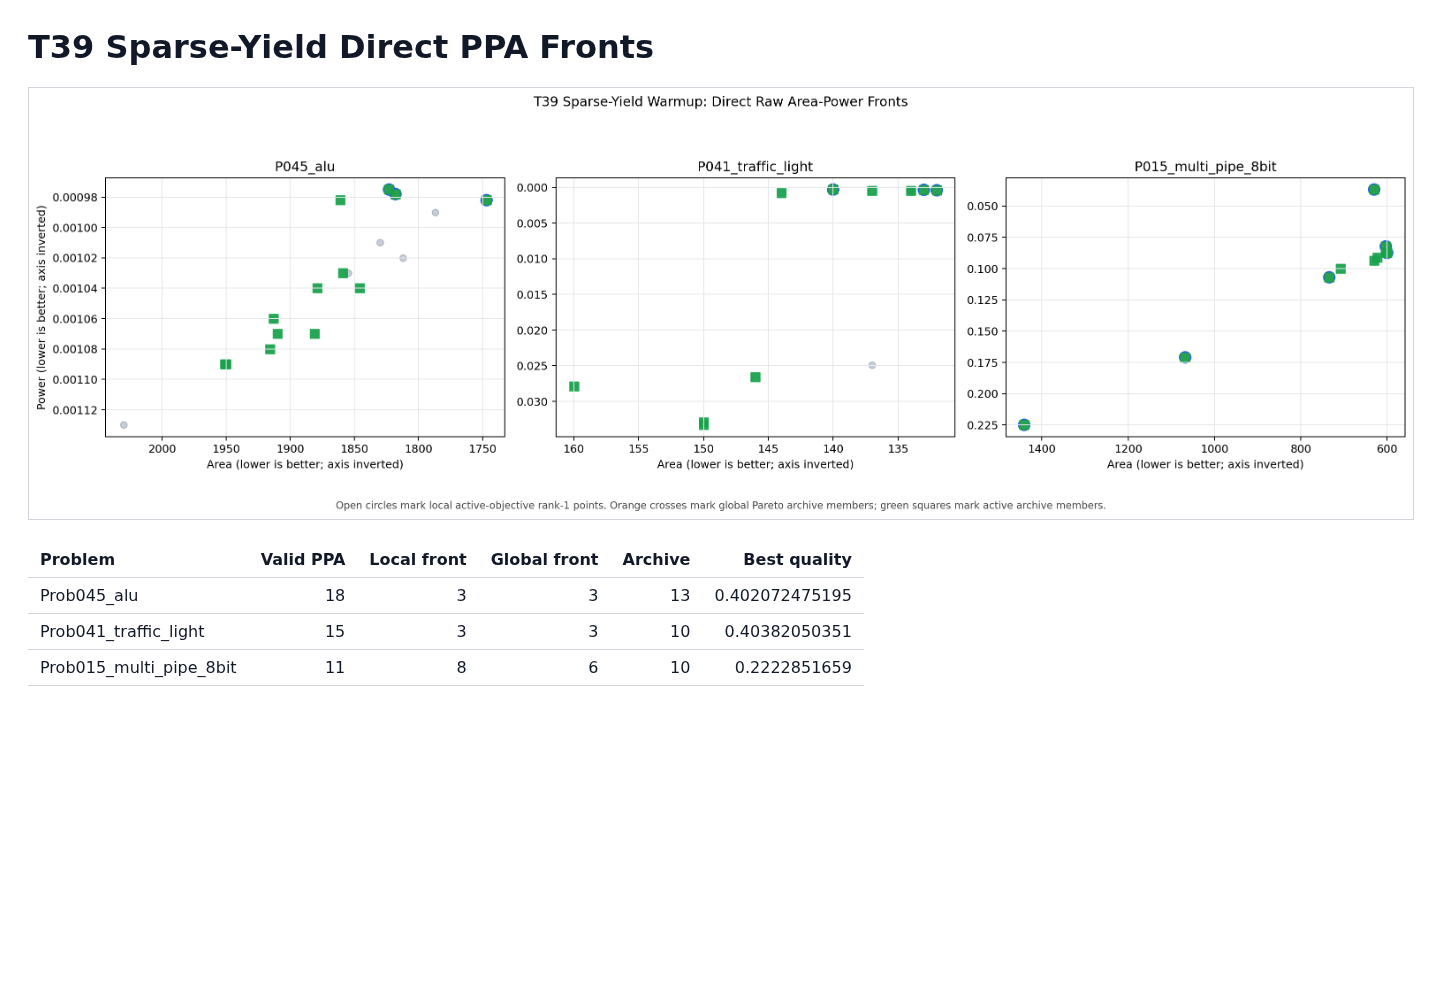
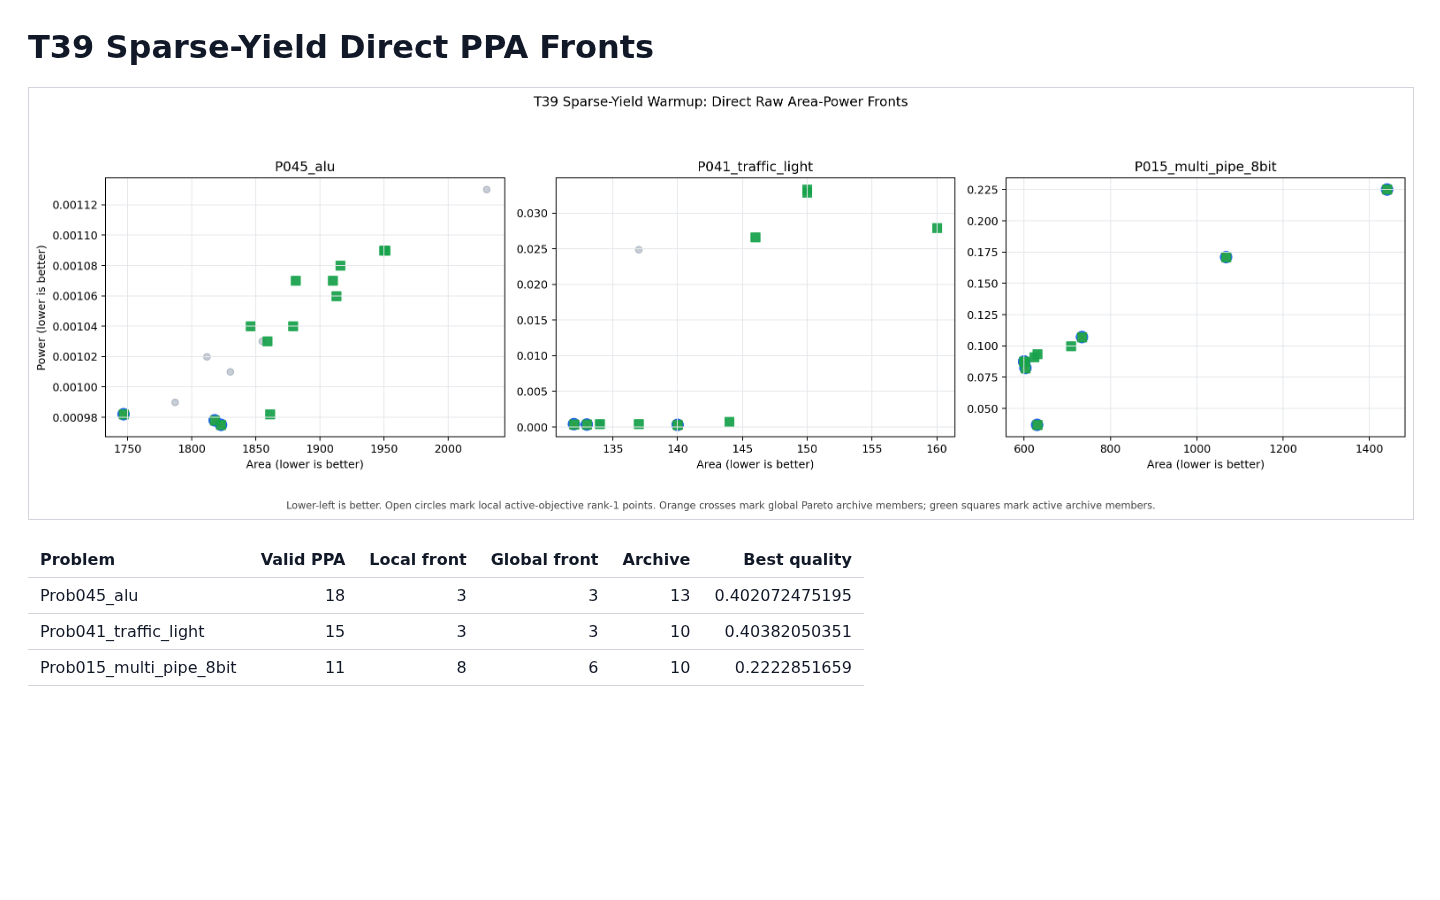
fix(qd): Use direct PPA front axes
Regenerate the T38 and T39 direct PPA figures so raw area and raw
power use conventional axes with lower-left marked as better.

Keep archive and improvement views as supporting artifacts. The primary
reader-facing Pareto front now has an unambiguous direction.

Tests:
- pytest: tests/scripts/test_package_t38_elite_pareto_slot_live.py
- ruff check: package script and focused test
- pyright: package script and focused test
- ty check: package script and focused test
- git diff --check

diff --git a/docs/journal_features/revamp_history/20260622_010615_KST_useful_bd_push/techniques/T38_elite_pareto_slot_live_qd/visualizations/direct_ppa_pareto/index.html b/docs/journal_features/revamp_history/20260622_010615_KST_useful_bd_push/techniques/T38_elite_pareto_slot_live_qd/visualizations/direct_ppa_pareto/index.html
@@ -2,7 +2,7 @@
 <html lang="en">
 <head>
   <meta charset="utf-8">
-  <title>T38 Direct PPA Pareto Viewer</title>
+  <title>T38 Elite Pareto Slot Direct PPA Fronts</title>
   <style>
     body { font-family: Inter, system-ui, sans-serif; margin: 28px; color: #111827; }
     img { max-width: 100%; border: 1px solid #d1d5db; }
@@ -13,7 +13,7 @@
 </head>
 <body>
   <h1>T38 Elite Pareto Slot Direct PPA Fronts</h1>
-  <img src="../../figures/t38_live_raw_area_power_fronts.png" alt="T38 raw area-power Pareto fronts">
+  <img src="../../figures/t38_live_raw_area_power_fronts.png" alt="T38 Elite Pareto Slot Direct PPA Fronts">
   <table>
     <thead>
       <tr><th>Problem</th><th>Valid PPA</th><th>Local front</th><th>Global front</th><th>Archive</th><th>Best quality</th></tr>

diff --git a/scripts/package_t38_elite_pareto_slot_live.py b/scripts/package_t38_elite_pareto_slot_live.py
@@ -318,12 +318,12 @@ def plot_raw_fronts(
         subset = [candidate for candidate in candidates if candidate.problem == problem]
         draw_problem(axis, subset, raw=True)
         axis.set_title(problem.replace("Prob", "P"))
-    axes[0].set_ylabel("Power (lower is better; axis inverted)")
+    axes[0].set_ylabel("Power (lower is better)")
     fig.suptitle(f"{config.plot_title_prefix}: Direct Raw Area-Power Fronts", y=0.98)
     fig.text(
         0.5,
         0.02,
-        "Open circles mark local active-objective rank-1 points. "
+        "Lower-left is better. Open circles mark local active-objective rank-1 points. "
         "Orange crosses mark global Pareto archive members; "
         "green squares mark active archive members.",
         ha="center",
@@ -396,10 +396,7 @@ def draw_problem(axis: Any, candidates: list[Candidate], *, raw: bool) -> None:
         label="Archive",
     )
     axis.grid(color="#e5e7eb", linewidth=0.8)
-    axis.set_xlabel("Area (lower is better; axis inverted)" if raw else "Area improvement g_A")
-    if raw:
-        axis.invert_xaxis()
-        axis.invert_yaxis()
+    axis.set_xlabel("Area (lower is better)" if raw else "Area improvement g_A")
 
 
 def draw_subset(

diff --git a/docs/journal_features/revamp_history/20260622_010615_KST_useful_bd_push/useful_bd_push_implementation_history.md b/docs/journal_features/revamp_history/20260622_010615_KST_useful_bd_push/useful_bd_push_implementation_history.md
@@ -1884,3 +1884,22 @@ Placeholders are acceptable in the scaffold commit, but not at goal completion.
 - Tier decision: `T0 positive_ablation`. The warmup fix is real, but this
   package lacks same-budget classic/manual/random/full-Pareto controls, so it
   is not a `T1` or `T2` useful-QD claim.
+
+## T38/T39 Direct PPA Front Correction - 2026-06-22 UTC
+
+- The T38/T39 packages included raw area-power PPA plots, but the generator
+  inverted both raw axes. That made the plots less straightforward for the
+  intended reader-facing question: where is the actual area-power Pareto front?
+- Updated `scripts/package_t38_elite_pareto_slot_live.py` so raw PPA plots use
+  area on x, power on y, conventional non-inverted axes, and an explicit
+  lower-left-is-better annotation. The normalized improvement plot remains
+  higher-is-better.
+- Regenerated T38 and T39 package artifacts:
+  `figures/t38_live_raw_area_power_fronts.png`,
+  `figures/t39_live_raw_area_power_fronts.png`, and their
+  `visualizations/direct_ppa_pareto/screenshot.png` viewer screenshots.
+- Visually inspected the regenerated T38 and T39 raw-front figures with
+  `view_image`. The T39 viewer screenshot also renders the corrected plot and
+  summary table without overlap.
+- Updated T38/T39 figure notes and results reports to state that the primary
+  direct PPA figure uses conventional lower-left-better axes.

diff --git a/docs/journal_features/revamp_history/20260622_010615_KST_useful_bd_push/techniques/T38_elite_pareto_slot_live_qd/results_report.md b/docs/journal_features/revamp_history/20260622_010615_KST_useful_bd_push/techniques/T38_elite_pareto_slot_live_qd/results_report.md
@@ -34,11 +34,12 @@ The Pareto archive validator passed with `failure_count=0` and
 | `Prob015_multi_pipe_8bit` | 7 | 3 | 3 | 0 |  |
 
 The direct raw area-power plot is
-`figures/t38_live_raw_area_power_fronts.png`. It shows usable T38 PPA/front
-material for ALU and traffic-light, and it exposes the main failure mode for
-multi-pipe: valid/global Pareto candidates exist, but the active grid-quantile
-archive has zero members because the run produced only seven valid PPA points,
-below the configured warmup threshold of eight.
+`figures/t38_live_raw_area_power_fronts.png`. It uses raw area on x, raw power
+on y, no inverted axes, and lower-left marked as better. It shows usable T38
+PPA/front material for ALU and traffic-light, and it exposes the main failure
+mode for multi-pipe: valid/global Pareto candidates exist, but the active
+grid-quantile archive has zero members because the run produced only seven
+valid PPA points, below the configured warmup threshold of eight.
 
 ## Conclusion
 

diff --git a/docs/journal_features/revamp_history/20260622_010615_KST_useful_bd_push/techniques/T38_elite_pareto_slot_live_qd/figures/visual_inspection_notes.md b/docs/journal_features/revamp_history/20260622_010615_KST_useful_bd_push/techniques/T38_elite_pareto_slot_live_qd/figures/visual_inspection_notes.md
@@ -8,10 +8,10 @@ Inspected:
 - `visualizations/direct_ppa_pareto/screenshot.png`
 
 The raw area-power figure is readable and marks local rank-1 points, global
-front points, and active archive members with distinct markers. The inverted
-area and power axes make lower-is-better movement visually consistent toward
-the upper-right. The multi-pipe panel clearly shows three front/global points
-but no active archive squares.
+front points, and active archive members with distinct markers. It uses
+conventional non-inverted axes: lower area and lower power move toward the
+lower-left. The multi-pipe panel clearly shows three front/global points but
+no active archive squares.
 
 The normalized improvement figure is readable and makes the multi-pipe
 negative power/timing tradeoff visible. The count summary is readable and

diff --git a/docs/journal_features/revamp_history/20260622_010615_KST_useful_bd_push/techniques/T38_elite_pareto_slot_live_qd/figures/README.md b/docs/journal_features/revamp_history/20260622_010615_KST_useful_bd_push/techniques/T38_elite_pareto_slot_live_qd/figures/README.md
@@ -1,8 +1,8 @@
 # T38 Figures
 
 - `t38_live_raw_area_power_fronts.png`: primary direct raw area-power PPA
-  Pareto-front view. Lower area and lower power are better; both axes are
-  inverted so better points move toward the upper-right.
+  Pareto-front view. Lower area and lower power are better, axes are not
+  inverted, and better points move toward the lower-left.
 - `t38_live_improvement_fronts.png`: normalized improvement-space companion
   plot using `g_A`, `g_P`, and, for multi-pipe front membership, `g_T`.
 - `t38_live_archive_counts.png`: per-problem valid-PPA, local-front,

diff --git a/docs/journal_features/revamp_history/20260622_010615_KST_useful_bd_push/techniques/T39_sparse_yield_warmup_qd/figures/visual_inspection_notes.md b/docs/journal_features/revamp_history/20260622_010615_KST_useful_bd_push/techniques/T39_sparse_yield_warmup_qd/figures/visual_inspection_notes.md
@@ -9,8 +9,8 @@ Inspected:
 
 The raw area-power figure is readable and directly shows the main T39 result:
 multi-pipe now has green active-archive squares instead of the empty active
-archive seen in T38. The inverted raw axes make lower area and lower power
-move visually toward the upper-right.
+archive seen in T38. It uses conventional non-inverted axes, so lower area and
+lower power move toward the lower-left.
 
 The normalized improvement figure is readable and shows the multi-pipe
 tradeoff shape, including positive area movement with mixed power/timing

diff --git a/docs/journal_features/revamp_history/20260622_010615_KST_useful_bd_push/techniques/T39_sparse_yield_warmup_qd/results_report.md b/docs/journal_features/revamp_history/20260622_010615_KST_useful_bd_push/techniques/T39_sparse_yield_warmup_qd/results_report.md
@@ -20,6 +20,10 @@ validator passed with `failure_count=0` and `max_front_size_seen=2`.
 | `Prob041_traffic_light` | 15 | 3 | 3 | 10 | 0.403821 |
 | `Prob015_multi_pipe_8bit` | 11 | 8 | 6 | 10 | 0.222285 |
 
+The direct raw area-power plot is
+`figures/t39_live_raw_area_power_fronts.png`. It uses raw area on x, raw power
+on y, no inverted axes, and lower-left marked as better.
+
 ## T38 Comparison
 
 The specific T38 blocker is fixed. Multi-pipe moved from 7 valid PPA,

diff --git a/docs/journal_features/revamp_history/20260622_010615_KST_useful_bd_push/techniques/T39_sparse_yield_warmup_qd/figures/README.md b/docs/journal_features/revamp_history/20260622_010615_KST_useful_bd_push/techniques/T39_sparse_yield_warmup_qd/figures/README.md
@@ -5,6 +5,6 @@ Status: bounded live arm packaged.
 Figures:
 
 - `t39_live_raw_area_power_fronts.png`: primary direct raw area-power PPA
-  front figure.
+  front figure with conventional non-inverted axes; lower-left is better.
 - `t39_live_improvement_fronts.png`: normalized improvement companion.
 - `t39_live_archive_counts.png`: valid-PPA, front, and archive count summary.
